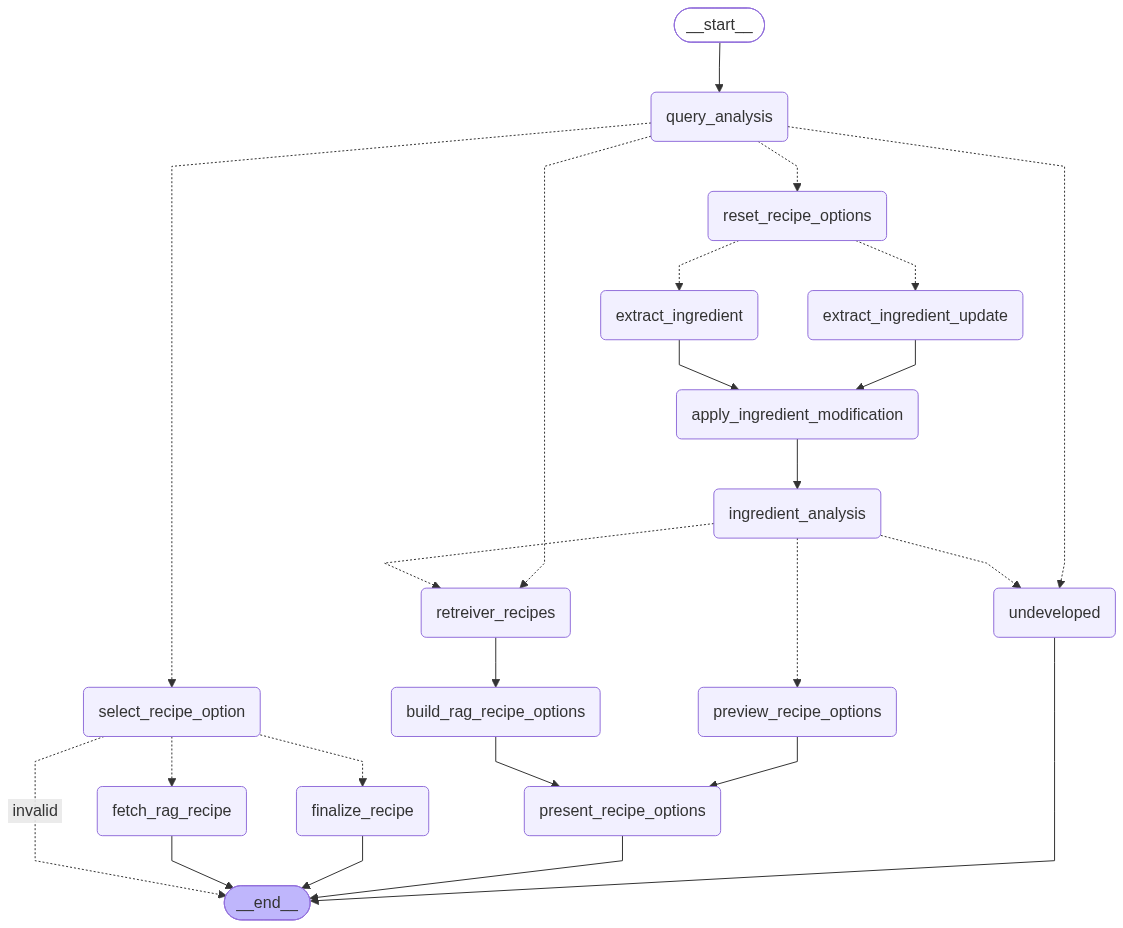
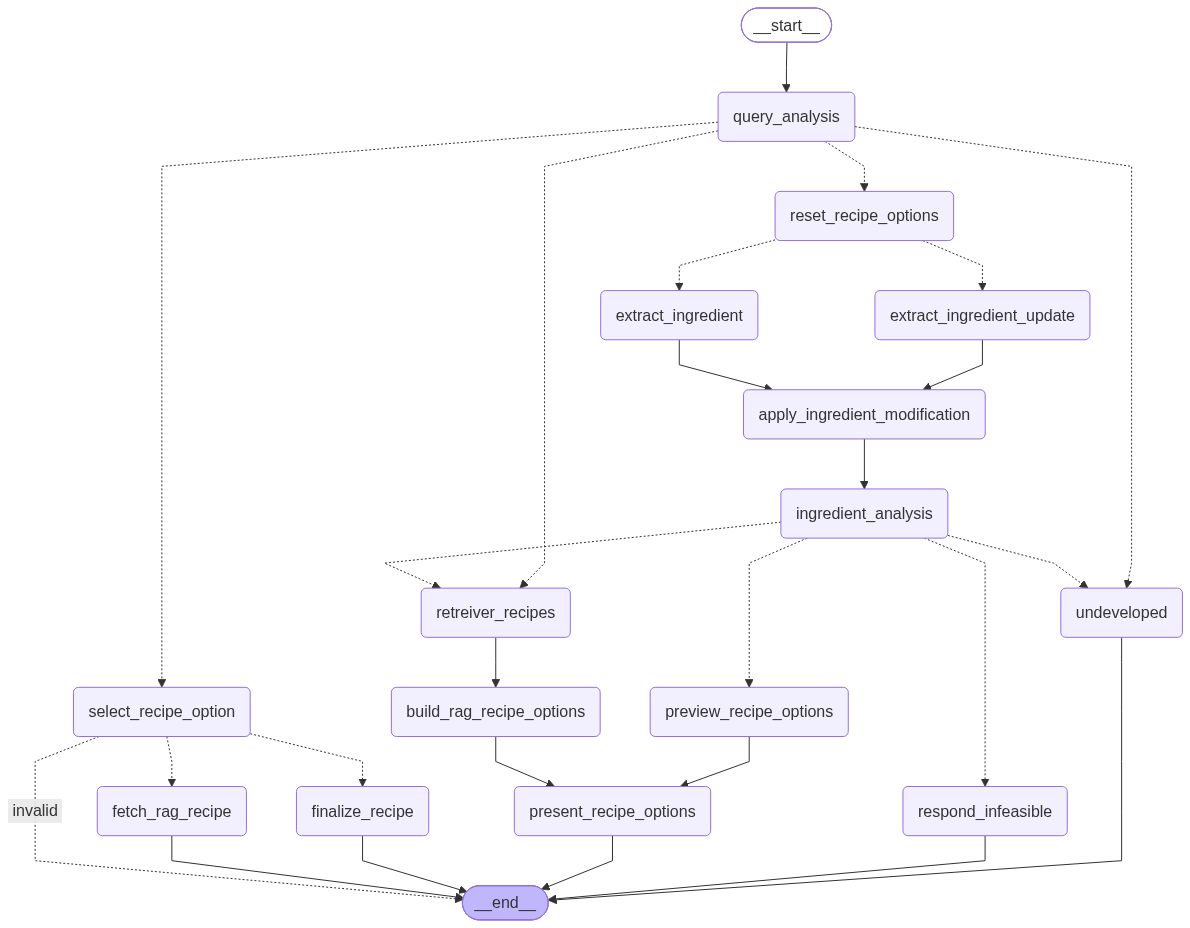
respond_infeasible

diff --git a/schems.py b/schems.py
@@ -10,24 +10,38 @@ class StructuredRecipe(BaseModel):
     description="재료+양념 리스트. [재료명, 양, 단위]. 비수치 표현은 [재료명, -1, '']")
     steps: str = Field(description="조리순서 (Tip 이후 제외, 줄바꿈으로 단계 구분)")
 
+## 재료 요리 가능성 
 class IngredientFeasibility(BaseModel):
     feasibility: Literal[
         "directly_cookable", "needs_more_ingredients", "not_cookable"
     ] = Field(description="현재 재료로 요리가 가능한지에 대한 판정 결과")
+    reason: str | None = Field(
+                default=None,
+                description=(
+                    "not_cookable일 때만 채움. 왜 요리가 불가능한지 구체적 이유. "
+                    "예: 재료 수가 너무 적음 / 재료 조합이 요리로 성립하지 않음 / "
+                    "먹을 수 없는 재료가 포함됨 / 구하기 힘든 고급 재료가 필요함 등"
+                ),
+            )
  
-
 ## 생성레시피: 정형화 레시피 포함 
 class IngredientAnalysisResult(BaseModel):
 
     feasibility: Literal[
         "directly_cookable", "needs_more_ingredients", "not_cookable"
     ] = Field(description="현재 재료 기준 요리 가능 여부 판정")
+    reason: str | None = Field(
+        default=None,
+        description="not_cookable일 때만 채움. 왜 요리가 불가능한지 구체적 이유.",
+    )
     structured_recipe: StructuredRecipe | None = Field(
         default=None, description="생성된 정형화 레시피"
     )
     needed_ingredients: List[str] | None = Field(
         default=None, description="추출된 재료를 제외한 추가 재료 리스트"
     )
+    
+
 class RecipeList(BaseModel):
     recipes: List[StructuredRecipe] = Field(description="추출된 레시피 목록 (빈 문서는 제외)")
 

diff --git a/graph.py b/graph.py
@@ -40,7 +40,8 @@ _, recipes.retriever = init_vdb(embedding, COLLECTION_NAME, RETRIEVER_K)
 ## 재료 기반 레시피 흐름 그래프
 def build():
     graph_test = StateGraph(OverrallState)
- 
+
+    graph_test.add_node("undeveloped", nodes.undeveloped)
     graph_test.add_node("query_analysis", analysis.query_analysis)
     graph_test.add_node("retreiver_recipes", recipes.retreiver_recipes)
     graph_test.add_node("reset_recipe_options", ingredients.reset_recipe_options)
@@ -48,10 +49,11 @@ def build():
     graph_test.add_node("extract_ingredient_update", ingredients.extract_ingredient_update)
     graph_test.add_node("apply_ingredient_modification", ingredients.apply_ingredient_modification)
     graph_test.add_node("ingredient_analysis", analysis.ingredient_analysis)
-    graph_test.add_node("undeveloped", nodes.undeveloped)
+    graph_test.add_node("respond_infeasible", nodes.respond_infeasible)
     graph_test.add_node("preview_recipe_options", preview_recipes.preview_recipe_options)
     graph_test.add_node("build_rag_recipe_options", preview_recipes.build_rag_recipe_options)
     graph_test.add_node("present_recipe_options", preview_recipes.present_recipe_options)
+    
 
     graph_test.add_node(
         "select_recipe_option", recipes.select_recipe_option
@@ -93,10 +95,13 @@ def build():
         path_map={
             "preview_recipe_options": "preview_recipe_options",
             "retreiver_recipes": "retreiver_recipes",
+            "respond_infeasible": "respond_infeasible",
             "undeveloped": "undeveloped",
         },
     )
- 
+    graph_test.add_edge("respond_infeasible", END)
+
+    
     graph_test.add_edge("retreiver_recipes", "build_rag_recipe_options")
  
     graph_test.add_edge("preview_recipe_options", "present_recipe_options")

diff --git a/templates/analysis_prompts.py b/templates/analysis_prompts.py
@@ -35,10 +35,19 @@ ingredient_prompt = ChatPromptTemplate.from_messages([
      "추가 재료 없이 레시피 생성이 가능하다면 답변은 \"directly_cookable\" 입니다.\n"
      "추가 재료가 필요하다면 답변은 \"needs_more_ingredients\" 입니다.\n"
      "만약에 주어진 재료로 요리 레시피 제작이 불가능하다면 답변은 \"not_cookable\" 입니다.\n"
+     "not_cookable로 판정하는 경우, 반드시 reason 필드에 구체적인 이유를 적어주세요. \n"
+     "다음 중 해당하는 이유를 예시로 참고하세요: \n"
+     "1) 재료 수가 너무 적어 요리 자체가 성립하지 않음, \n"
+     "2) 재료들의 조합이 요리로서 어울리지 않음(괴식), \n"
+     "3) 구하기 어렵거나 특수한 고급 재료가 필요함, \n"
+     "4) 사람이 먹을 수 없는 재료가 포함됨, \n"
+     "5) 그 외 재료 조합/성질상의 문제. \n"
+     "directly_cookable 또는 needs_more_ingredients인 경우 reason은 반드시 null로 두세요."
      "출력형태는 다음과 같은 json형태입니다.\n"
       "```json\n"
      "  {{\n"
      " \"feasibility\": \"directly_cookable\" or \"needs_more_ingredients\" or \"not_cookable\""
+     " \"reason\": \"not_cookable일 때만 구체적 이유, 그 외에는 null\"\n"
      "  }}\n"
      "```\n"
      "\n\n"),

diff --git a/nodes/analysis.py b/nodes/analysis.py
@@ -74,6 +74,7 @@ def ingredient_analysis(state: OverrallState):
     )
     ingredient_analysis_result = IngredientAnalysisResult(
         feasibility=result.feasibility if result else "not_cookable",
+        reason=result.reason if result else "재료 정보를 판정하는 중 문제가 발생했어요.",
         structured_recipe=None,
         needed_ingredients=None,
     )
@@ -94,7 +95,7 @@ def conditional_ingredient_analysis(state: OverrallState):
         return ["preview_recipe_options", "retreiver_recipes"]
 
     elif feasibility == "not_cookable":
-        print("배달이나 시켜드십쇼. ㅋㅋㅋㅋㅋㅋㅋㅋ")
-        return "undeveloped"
+        return "respond_infeasible"
 
+    print("conditional_ingredient_analysis 예외발생")
     return "undeveloped"

diff --git a/nodes/nodes.py b/nodes/nodes.py
@@ -19,6 +19,12 @@ def format_docs(ds):
 
 
 
+def respond_infeasible(state: OverrallState):
+    result = state["ingredient_analysis_result"]
+    reason = result.reason or "재료 조합상 적절한 요리를 만들기 어려워요."
+    answer = f"죄송해요, 이 재료로는 요리를 만들기 어려울 것 같아요.\n이유: {reason}"
+    return {"answer": answer}
+
 ## <-------------------------------------------------- < 미사용 > ------------------------------------------>
 
 
@@ -42,3 +48,7 @@ async def node_llm(state: OverrallState):
     ai_msg = AIMessage(content=answer)
 
     return {"messages": [human_msg, ai_msg], "answer": answer}
+
+
+
+

diff --git a/llm.py b/llm.py
@@ -36,6 +36,7 @@ def invoke_structured(schema, prompt, *, fallback=NO_FALLBACK, provider=None, mo
     fallback을 지정하면 실패 시 그 값을 반환하고, 미지정 시 예외를 그대로 전파한다.
     """
     structured_model = get_llm(provider, model).with_structured_output(schema, method="json_schema")
+
     try:
         return structured_model.invoke(prompt)
     except Exception as e:

diff --git a/README.md b/README.md
@@ -131,13 +131,14 @@ uv run python data_pipeline/recipe_pipeline.py
 > 파이프라인이 저장한 새 레시피는 백엔드가 **재시작해야** 검색에 반영됩니다
 > (서버는 시작 시 1회만 VDB를 로드합니다).
 
-## Data Source(draft)
+## Data Source
 ### Train & Rag Document
 1. 만개의 레시피   
 - URL: https://www.10000recipe.com/?srsltid=AfmBOooLjpoIMbvss7HL5iXygBMquTRGr-oGYMjopTBaFqNWWb5L2QuT
 - 레시피 문서
 
-### DB
+
+### DB(미사용)
 
 1. 식품의약품안전처(식품영양성분 데이터베이스)   
 - URL: https://various.foodsafetykorea.go.kr/nutrient/general/down/list.do
